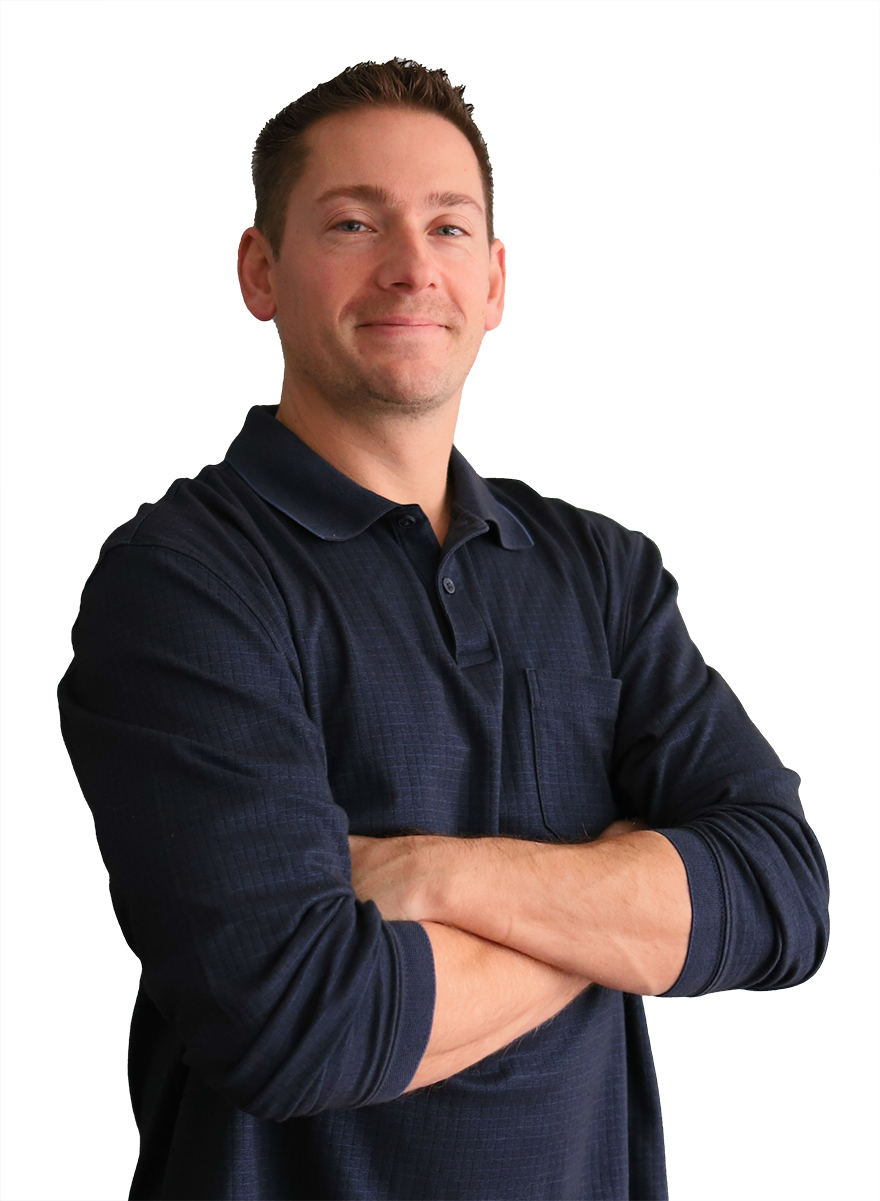
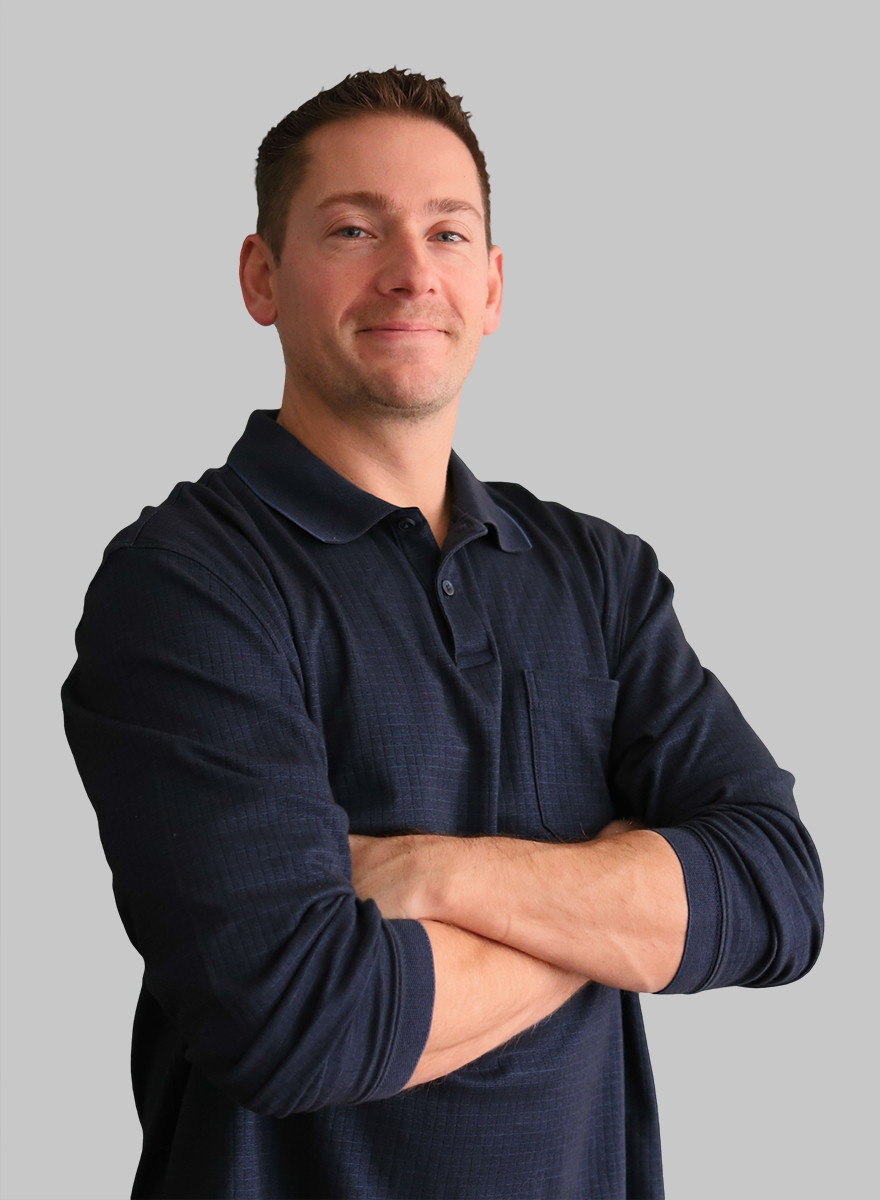
Color adjustments

diff --git a/styles.css b/styles.css
@@ -30,8 +30,8 @@
 }
 
 .navbar-toggler:hover {
-  background-color: rgb(255, 255, 255);
-  color: rgb(255, 255, 255);
+  background-color: #22fc00;
+  color: #f2f2f2;
 -webkit-transition: all 0.2s ease-in;
 }
 
@@ -56,7 +56,7 @@
 }
 
 .inner-wrapper h1 {
-  color: rgb(255, 255, 255);
+  color: #f2f2f2;
   animation-duration: 0.5s;
   animation: fadeIn linear 0.5s;
   -webkit-animation: fadeIn linear 0.5s;
@@ -123,13 +123,14 @@
 .photo {
   width: 100%;
   height: 100%;
+  box-shadow: rgba(0, 0, 0, 0.35) 0px 5px 15px;
 }
 
 .about-heading {
   padding-top: 30px;
   text-align: center;
   letter-spacing: 8px;
-  color: rgb(255, 255, 255);
+  color: #f2f2f2;
 }
 
 .about-me-para {
@@ -141,7 +142,7 @@
 .modal-button {
   height: 45px;
   width: 160px;
-  color: #ffffff;
+  color: #f2f2f2;
   text-transform: uppercase;
   background-color: transparent;
   border: 1px solid rgb(255, 255, 255);
@@ -150,27 +151,26 @@
 
 .modal-button:hover {
   border: 1px solid #22fc00;
-  color: rgb(255, 255, 255);
+  color: #f2f2f2;
   background-color: #354555;
 }
 
 .modal-content {
-  color: #E4E7EB;
-  background: rgb(94,94,94);
-  background: rgb(59,59,59);
-  background: radial-gradient(circle, rgba(59,59,59,1) 0%, rgba(32,32,32,1) 100%);
+  color: #f2f2f2;
+  background: #354555;
+  background: radial-gradient(circle, #354555 0%, rgb(1, 1, 1) 100%);
 }
 
 .modal-title {
-  color: #E4E7EB;
+  color: #f2f2f2;
 }
 
 .modal-header {
-  color: #E4E7EB;
+  color: #f2f2f2;
 }
 
 .modal-para {
-  color: #CBD2D9;
+  color: #f2f2f2;
   text-align: left;
 }
 
@@ -191,13 +191,14 @@
 .about-content {
   padding: 6%;
   text-align: left;
-  background: rgb(255,255,255);
-  background: linear-gradient(90deg, rgba(255,255,255,1) 0%, rgba(163,163,163,1) 100%);
+  background: linear-gradient(90deg, rgb(242, 242, 242) 0%, rgb(194, 194, 194) 100%);
+  box-shadow: rgba(0, 0, 0, 0.35) 0px 5px 15px;
 }
 
 .icon-section {
   padding: 3%;
-  background-color: rgb(227, 227, 227);
+  background-color: rgb(220, 220, 220);
+  box-shadow: rgba(0, 0, 0, 0.35) 0px 5px 15px;
 }
 
 .icon-header {
@@ -239,7 +240,7 @@
 .portfolio-header {
   text-align: center;
   letter-spacing: 8px;
-  color: #ffffff;
+  color: #f2f2f2;
 }
 
 .portfolio-row {
@@ -260,12 +261,12 @@
 .card-body {
   display: flex;
   flex-direction: column;
-  color: #ffffff;
+  color: #f2f2f2;
   background-color: #354555;
 }
 
 .card-title {
-  color: #ffffff;
+  color: #f2f2f2;
   font-size: 1.3em;
   font-weight: bolder;
   text-transform: uppercase;
@@ -281,18 +282,18 @@
   margin-right: auto;
   margin-left: auto;
   width: 40%;
-  color: #ffffff;
+  color: #f2f2f2;
   text-transform: uppercase;
   border-radius: 0px;
   background-color: #354555;
-  border: 1px solid rgb(255, 255, 255);
+  border: 1px solid #f2f2f2;
   transition: all .2s ease-in-out;
   text-transform: uppercase;
 } 
 
 .btn:hover {
   border: 1px solid #22fc00;
-  color: rgb(255, 255, 255);
+  color: #f2f2f2;
   background-color: #354555;
 }
 
@@ -325,9 +326,9 @@
   padding-bottom: 50px;
   position: relative;
   max-width: 940px;
-  border: none;
+  border: 1px solid #373737;
   background-color: #454545;
-  box-shadow: rgba(0, 0, 0, 0.17) 0px -23px 25px 0px inset, rgba(0, 0, 0, 0.15) 0px -36px 30px 0px inset, rgba(0, 0, 0, 0.1) 0px -79px 40px 0px inset, rgba(0, 0, 0, 0.06) 0px 2px 1px, rgba(0, 0, 0, 0.09) 0px 4px 2px, rgba(0, 0, 0, 0.09) 0px 8px 4px, rgba(0, 0, 0, 0.09) 0px 16px 8px, rgba(0, 0, 0, 0.09) 0px 32px 16px;
+  box-shadow: rgb(6, 6, 6) 0px 20px 30px -10px;
 }
 
 .section-header {
@@ -335,7 +336,7 @@
   margin: 0 auto;
   padding: 40px 0;
   letter-spacing: 8px;
-  color: rgb(255, 255, 255);
+  color: #f2f2f2;
   text-transform: uppercase;
 }
 
@@ -358,15 +359,15 @@ textarea {
   height: 50px;
   width: 100%;
   overflow: hidden;
-  color: #ffffff;
+  color: #f2f2f2;
   background-color: transparent;
-  border: 1px solid rgb(255, 255, 255);
+  border: 1px solid #f2f2f2;
   transition: all .2s ease-in-out;
 }
 
 .send-button:hover {
   border: 1px solid #22fc00;
-  color: rgb(255, 255, 255);
+  color: #f2f2f2;
 }
 
 /* Begin Right Contact Page */
@@ -385,12 +386,12 @@ textarea {
 .list-item {
   margin-left: -10px;
   line-height: 4;
-  color: rgb(255, 255, 255);
+  color: #f2f2f2;
 }
 
 .contact-text {
   letter-spacing: 1.5px;
-  color: rgb(255, 255, 255);
+  color: #f2f2f2;
 }
 
 .place {
@@ -457,7 +458,7 @@ textarea {
 }
 
 .copyright {
-  color: rgb(255, 255, 255);
+  color: #f2f2f2;
   letter-spacing: 1px;
   font-size: smaller;
   text-align: center;

diff --git a/index.html b/index.html
@@ -52,7 +52,7 @@
             <div id="about" class="about-me-container py-5">
                 <div class="row">
                     <div class="about-me-left-side col-sm-12 col-md-6 p-5">
-                        <img class="photo" src="images/my_image copy transparent-bg.jpg" alt="A photo of a handsome Dave Donatuccio">
+                        <img class="photo" src="images/my_image copy.jpg" alt="A photo of a handsome Dave Donatuccio">
                         <div class="about-me-summary">
                             <h2 class="about-heading display-4">ABOUT ME</h2>
                             <p class="about-me-para mx-1">I'm a Northern New Jersey based aspiring Web Designer & Front-end   Developer focused on creating clean, responsive web designs!</hp>
@@ -190,7 +190,7 @@
                         </div>
                     </div>
                     <div class="card text-center" style="width: 21rem;">
-                        <img src="images/login_form_image.jpg" class="card-img-top" alt="Image that shows a security lock protect a computer.">
+                        <img src="images/login_form_image.jpg" class="card-img-top" alt="Image that shows a security lock sitting on a computer keyboard.">
                         <div class="card-body">
                             <h5 class="card-title pt-3">Login Form</h5>
                             <p class="card-text">This latest project form plays with depth and a contrast of bright colors.</p>
@@ -199,7 +199,7 @@
                         </div>
                     </div>
                     <div class="card text-center" style="width: 21rem;">
-                        <img src="images/contact_form_image.jpg" class="card-img-top" alt="Image that reads contact us using scrabble pieces.">
+                        <img src="images/contact_form_image.jpg" class="card-img-top" alt="Image showing to circut panels connecting with electricity.">
                         <div class="card-body">
                             <h5 class="card-title pt-3">Contact Form</h5>
                             <p class="card-text">This contact form flashes some annimation and an awesome color scheme.</p>
@@ -208,7 +208,7 @@
                         </div>
                     </div>
                     <div class="card text-center" style="width: 21rem;">
-                        <img src="images/health_form_image.jpg" class="card-img-top" alt="Image that reads Covid-19.">
+                        <img src="images/health_form_image.jpg" class="card-img-top" alt="Image that displays Covid-19 in 3D.">
                         <div class="card-body">
                         <h5 class="card-title pt-3">Employee Health Form</h5>
                         <p class="card-text">This is my take on a Covid-19 health questionnaire using Bootstrap5 Form.</p>
@@ -323,7 +323,7 @@
                 </li>
             </ul>
             <hr class="rule" style="color: rgb(255, 255, 255)">
-            <div class="copyright">&copy; DAVE DONATUCCIO</div>
+            <div class="copyright">&copy; Webpage designed by Dave Donatuccio</div>
         </div>
     </div>
 </section>
